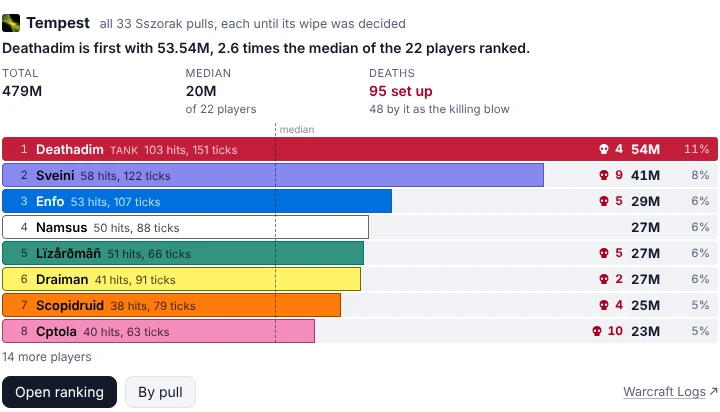
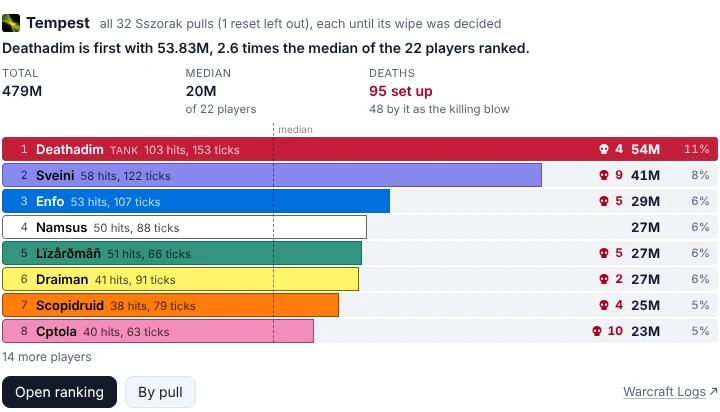
fix(agent): a mechanic's trend is over the pulls its tool counts, and names the reset left out
mechanic_hits leaves a night's reset out of its counts since the numbers were made to agree, and says so in its
scope. The trend built beside that change still wrote "all 33 Sszorak pulls". It now takes the tool's own pulls and
the tool's own words for the reset (Report.attempts), and the tests and the two pictures of the changelog show the
numbers the tools print today (53.83M, 32 pulls).

diff --git a/tests/core/test_views.py b/tests/core/test_views.py
@@ -339,21 +339,20 @@ async def test_a_trend_states_each_pulls_amount_as_breakdown_by_pull_does(record
 
 
 async def test_a_mechanics_trend_counts_the_raids_hits_per_pull_as_its_tool_does(recorded):
-    """mechanic_hits over every pull states the raid's hits pull by pull; the trend has the same counts, over each
-    pull's minutes until its wipe was decided, the medians of the night's thirds with the reset left out, and the
-    asker's own hits in the pulls they were in."""
+    """mechanic_hits over every pull states the raid's hits pull by pull; the trend has the same counts over the same
+    pulls (the night's reset is none of them, as the tool's text says), over each pull's minutes until its wipe was
+    decided, the medians of the night's thirds, and the asker's own hits in the pulls they were in."""
     data = await trend_data("mechanic-hits", mark="enfo")
     text, _ = await server.call("mechanic_hits", CASES["mechanic-hits"].args)
     per_pull = dict(re.findall(r"(?:: |; )(\d+): (\d+)(?: \(\+\d+\))?, ", text.split("The raid's per pull")[1]))
-    assert len(per_pull) == len(data["pulls"]) == 33
+    assert len(per_pull) == len(data["pulls"]) == 32
+    assert data["scope"] == "all 32 Sszorak pulls (1 reset left out), each until its wipe was decided"
     for r in data["pulls"]:
         assert r["amount"] == int(per_pull[str(r["pull"])]), r["pull"]
         assert r["rate"] == round(60 * r["amount"] / r["seconds"], 1)  # to the one decimal a count is written with
     assert data["count"] and data["per"] == "minute" and data["subject"] == "Tempest hits" and data["icon"]
-    resets = [r["pull"] for r in data["pulls"] if r["reset"]]
     thirds = data["thirds"]
-    assert resets and [len(t["pulls"]) for t in thirds] == [10, 12, 10]
-    assert not set(resets) & {p for t in thirds for p in t["pulls"]}
+    assert not any(r["reset"] for r in data["pulls"]) and [len(t["pulls"]) for t in thirds] == [10, 12, 10]
     rates = {r["pull"]: r["rate"] for r in data["pulls"]}
     for t in thirds:
         found = sorted(rates[p] for p in t["pulls"])
@@ -483,7 +482,7 @@ async def test_breakdown_gives_a_views_key_only_for_a_ranking_or_a_trend(recorde
         return result.structured_content
     meter = await key_of("mechanic-hits")
     assert meter and meter["view"] == "meter" and "folded" not in meter
-    assert meter["label"] == "Tempest, all 33 Sszorak pulls, each until its wipe was decided"
+    assert meter["label"] == "Tempest, all 32 Sszorak pulls (1 reset left out), each until its wipe was decided"
     assert await key_of("damage-taken") is None and await key_of("mechanic-outliers") is None
     trend = await key_of("damage-by-pull")
     assert trend and trend["view"] == "trend" and trend["folded"] is True  # the second of the same answer
@@ -2337,7 +2336,7 @@ async def test_a_ranking_and_a_trend_are_the_card_too(recorded, width):
     rows = "document.querySelectorAll('.meter-rows li:not(.gap)').length"
     async with drawn(case.tool, case.args, width=width) as (view, errors):
         card = await view.evaluate(CARD)
-        assert card["lead"] == ["Deathadim is first with 53.54M, 2.6 times the median of the 22 players ranked."]
+        assert card["lead"] == ["Deathadim is first with 53.83M, 2.6 times the median of the 22 players ranked."]
         assert 1 <= card["stats"] <= 4 and card["buttons"] == ["Open ranking", "By pull"] and card["tables"] == 0
         assert await view.evaluate(rows) == 8 and "14 more players" in await view.locator("body").inner_text()
         assert await view.locator('[data-panel="by_pull"]').count() == 0
@@ -2347,7 +2346,7 @@ async def test_a_ranking_and_a_trend_are_the_card_too(recorded, width):
         trend = await view.evaluate(CARD)
         assert trend["lead"][0].startswith("The raid's Tempest hits per minute: ") and trend["charts"] == 1
         assert 1 <= trend["stats"] <= 4 and trend["buttons"] == ["Open trend"] and trend["tables"] == 0
-        assert await view.locator("[data-pull-col]").count() == 33 and trend["tall"] <= (560 if width < 500 else 450)
+        assert await view.locator("[data-pull-col]").count() == 32 and trend["tall"] <= (560 if width < 500 else 450)
         assert await view.locator("button.back").inner_text() == "← Tempest"
         assert not errors
     async with drawn(case.tool, case.args, mode="fullscreen", width=viewhost.FULL_WIDTH) as (view, errors):
@@ -2518,7 +2517,8 @@ async def test_a_later_ranking_of_an_answer_is_one_line_that_opens(recorded):
     result["structuredContent"]["folded"] = True
     async with drawn(case.tool, case.args, result=result) as (view, errors):
         line = view.locator(".folded")
-        assert await line.inner_text() == "Tempest, all 33 Sszorak pulls, each until its wipe was decided\nShow"
+        assert await line.inner_text() == ("Tempest, all 32 Sszorak pulls (1 reset left out), each until its wipe was "
+                                           "decided\nShow")
         assert await view.evaluate(TALL) <= 56 and await view.locator(".meter-rows").count() == 0
         await view.get_by_role("button", name="Show").click()
         await view.locator(".meter-rows").wait_for()

diff --git a/src/wipebot/core/report/views.py b/src/wipebot/core/report/views.py
@@ -1021,7 +1021,7 @@ async def _table_trend(rep: Report, a: dict) -> Trend | None:
 async def _mechanic_trend(rep: Report, a: dict) -> Trend | None:
     """mechanic_hits over every pull: the raid's hits in each pull (its debuff's applications, for one that lands
     more often than it deals damage), as the tool's per-pull line counts them, over each pull's time until its wipe
-    was decided (mechanics.night_of's minutes), and each player's."""
+    was decided (mechanics.night_of's minutes), and each player's. The pulls are the tool's: a reset is none."""
     night = await mechanics.night_of(rep, a["ability"], a.get("boss"), bool(a.get("whole_pull")), a.get("start"),
                                      a.get("end"))
     h, fights = night.h, night.fights
@@ -1039,7 +1039,8 @@ async def _mechanic_trend(rep: Report, a: dict) -> Trend | None:
         rows.append({p.name: 0.0 for p in rep.pull_players(f).values()}  # in the pull and never hit: none
                     | {rep.names[who]: float(k) for (fid, who), k in per.items() if fid == f["id"]})
     name = h.name or a["ability"]
-    scope = f"all {plural(len(fights), fights[0]['name'] + ' pull')}"
+    left_out = rep.attempts(rep.by_boss[rep.boss(a.get("boss"))])[1]  # " (1 reset left out)", as the tool's text
+    scope = f"all {plural(len(fights), fights[0]['name'] + ' pull')}{left_out}"
     if window:
         scope += f", {clock(window[0])}-{clock(window[1]) if window[1] < float('inf') else 'end'} of each"
     return Trend(f"{name} by pull", scope + (", each until its wipe was decided" if cut else ""),

diff --git a/CHANGELOG.md b/CHANGELOG.md
@@ -13,9 +13,9 @@ The format is based on [Keep a Changelog](https://keepachangelog.com/en/1.1.0/).
 - `MCP` **A card says what you have open, and links to its log.** After a click on a pull in a night's card, or a replay stopped at 1:28, "why did this one go wrong?" reached the model with nothing to say which pull or moment was on screen. A card now passes on one line about what it shows each time you open a view from another, go back, or stop a replay somewhere: "The user is now looking at Sszorak pull 13". Claude and ChatGPT read it with your next message where they take such a line. Every card also has a link to its pull, or to the night's report, on Warcraft Logs: beside the buttons, and in fullscreen at the end of the title's line.
 
   ![Sszorak pull 13's card in the light theme: Open pull and Replay on the left under the chart, and "Warcraft Logs" with an arrow at the right end of the same row](https://raw.githubusercontent.com/Enf0/wipebot/main/docs/images/card-log-link.webp)
-- `MCP` **Rankings are drawn in Claude and ChatGPT too.** "Who did the most damage?" and "who keeps getting hit by Tempest?" came with a damage meter in Discord and with text alone in Claude and ChatGPT. Both now get the card there: one sentence on who is first and how that stands against the median ("Deathadim is first with 53.54M, 2.6 times the median of the 22 players ranked."), the top eight players' bars in their class colours, and "Open ranking" for everyone's, with a mechanic's hits per player per pull under them. An answer that ranks several things opens one ranking and keeps each of the others to one line that opens on a click (a ranking asked for within a minute of the last counts as the same answer's), and a call that ranks nobody draws nothing. In Discord the meter's picture leads with the same sentence.
+- `MCP` **Rankings are drawn in Claude and ChatGPT too.** "Who did the most damage?" and "who keeps getting hit by Tempest?" came with a damage meter in Discord and with text alone in Claude and ChatGPT. Both now get the card there: one sentence on who is first and how that stands against the median ("Deathadim is first with 53.83M, 2.6 times the median of the 22 players ranked."), the top eight players' bars in their class colours, and "Open ranking" for everyone's, with a mechanic's hits per player per pull under them. An answer that ranks several things opens one ranking and keeps each of the others to one line that opens on a click (a ranking asked for within a minute of the last counts as the same answer's), and a call that ranks nobody draws nothing. In Discord the meter's picture leads with the same sentence.
 
-  ![Tempest over all 33 Sszorak pulls as a card in the light theme: "Deathadim is first with 53.54M, 2.6 times the median of the 22 players ranked.", the total, the median and the deaths it set up, the top eight players' bars in their class colours, and the buttons Open ranking and By pull](https://raw.githubusercontent.com/Enf0/wipebot/main/docs/images/meter-card.webp)
+  ![Tempest over the night's 32 Sszorak pulls (its reset left out) as a card in the light theme: "Deathadim is first with 53.83M, 2.6 times the median of the 22 players ranked.", the total, the median and the deaths it set up, the top eight players' bars in their class colours, and the buttons Open ranking and By pull](https://raw.githubusercontent.com/Enf0/wipebot/main/docs/images/meter-card.webp)
 - `Agent` **A trend by pull: is it getting better over the night?** Damage, healing, damage taken and casts grouped by pull, and one ability's hits over every pull, are now drawn: a bar per pull over the time that counted, a kill capped in gold, a reset hollow and left out, and the median pull of each third of the night as a dashed line, which the card's sentence states ("The raid's healing per second: 1.67M in the first third of the 32 pulls, 1.65M in the middle and 1.87M in the last"). One player's trend is in their class colour, and in Discord the row of whoever asked is drawn under the raid's. In Claude and ChatGPT a pull's bar opens that pull, "Open trend" lists every pull's numbers, and a ranking over several pulls has "By pull" to get there.
 
   ![Healing by pull over all 33 Sszorak pulls: a bar per pull, pull 9 hollow as a reset, three dashed lines at 1.67M, 1.65M and 1.87M for the thirds of the night, and under them Enfo's own healing in the same pulls](https://raw.githubusercontent.com/Enf0/wipebot/main/docs/images/trend-by-pull.webp)
